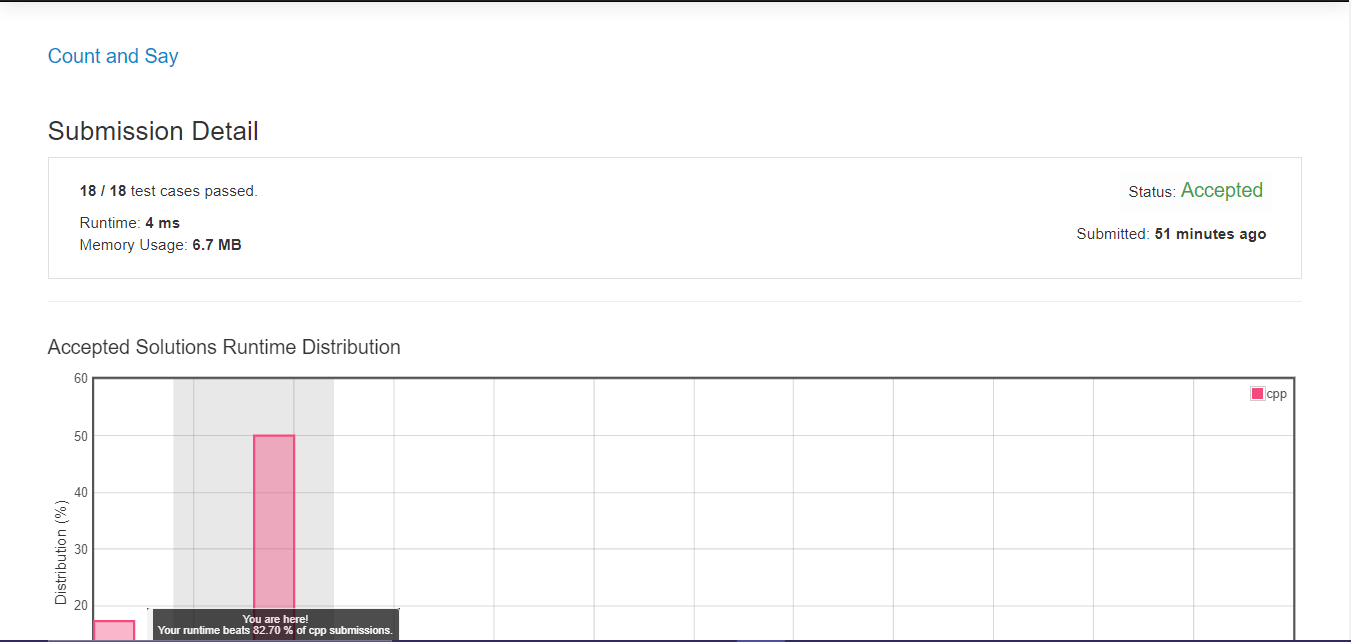
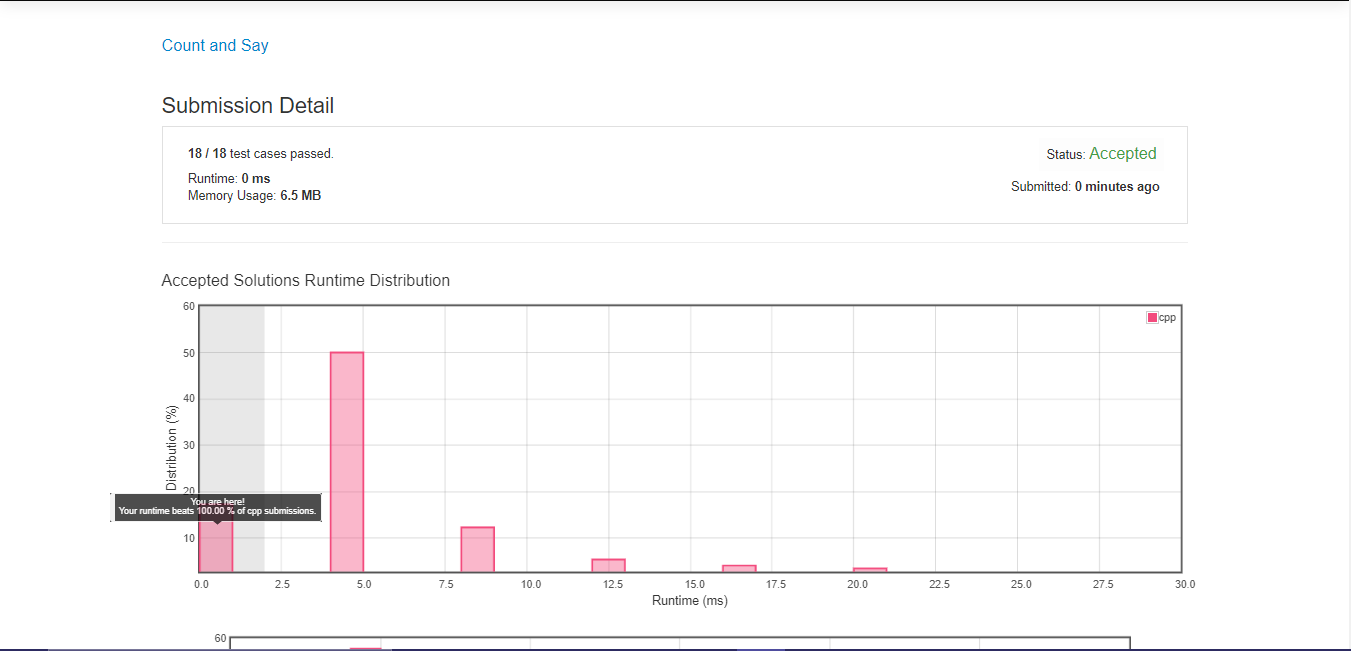
editted countandsay

diff --git a/Mohd Uzaif/Count and Say/CountAndSay.cpp b/Mohd Uzaif/Count and Say/CountAndSay.cpp
@@ -1,28 +1,26 @@
 class Solution {
 public:
-    string generateNext(string str){
-    int count=0,i=0;
-    string result="";
-    while(str[i]){
-        count=1;
-        while(str[i]==str[i+1]){
-            count++;
-            i++;
+    string AnotherFunction(string s)
+    {
+        string res="";
+        if(s==""){res="1";}
+        else{
+        int i=0,count=0,index=0;
+        while(i<s.size())
+        {
+            if(s[i]==s[index])  {count++;i++;}
+            else {res.push_back(count+48);res.push_back(s[index]);index=i;/*i++;*/count=0;}
         }
-        result.push_back(count+'0');
-        result.push_back(str[i]);
-        i++;
+        if(i>0) {res.push_back(count+48);res.push_back(s[index]);}
+        }
+        return res;
     }
-    cout<<result<<endl;
-    return result;
-}
-string countAndSay(int n) {
-    string result="1";
-    string def="1";
-    if(n==1)
-        return def;
-    for(int i=1;i<n;i++)
-        result=generateNext(result);
-    return result;
-}
+    string countAndSay(int n) {
+        string s="";
+        for(int i=0;i<n;i++)
+        {
+            s=AnotherFunction(s);
+        }
+        return s;
+    }
 };
